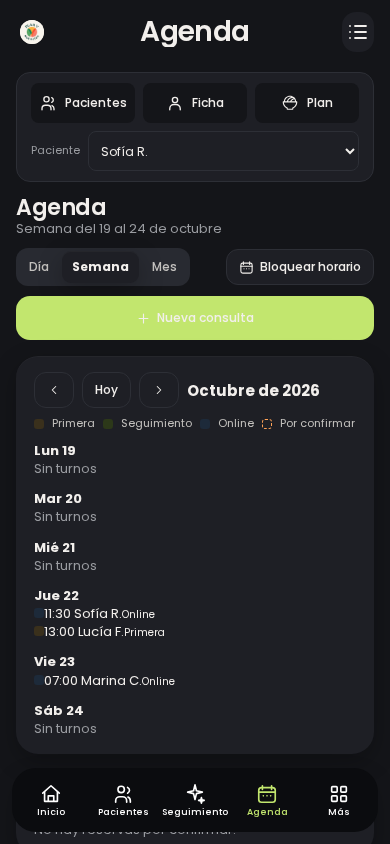
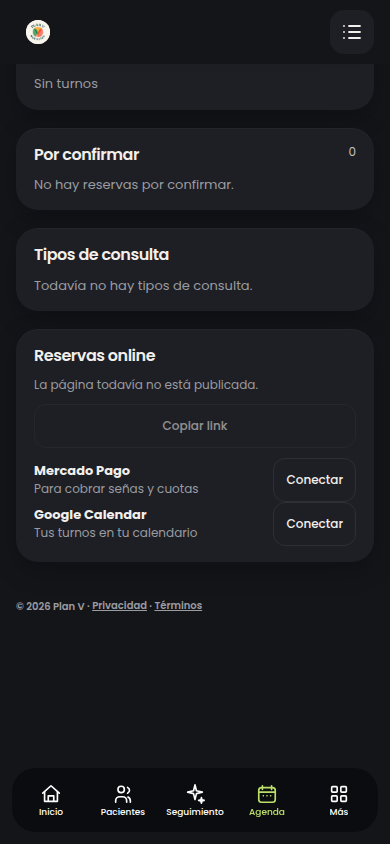
En el celular, Agenda y Cobranzas muestran un solo título, turnos en filas y el menú fijo.
Los movimientos pasan a tarjetas para que el nombre no se parta, y las capturas quedan junto al boceto de escritorio.

diff --git a/src/components/nutrigo/panel-fase5.css b/src/components/nutrigo/panel-fase5.css
@@ -55,7 +55,8 @@
 .pn-panel .p5-out { opacity:.45; }
 .pn-panel .p5-li { display:flex; align-items:center; gap:10px; min-width:0; }
 .pn-panel .p5-tx { flex:1; min-width:0; }
-.pn-panel .p5-tx b,.pn-panel .p5-tx span,.pn-panel .p5-link { display:block; overflow-wrap:anywhere; }
+.pn-panel .p5-tx b,.pn-panel .p5-tx span,.pn-panel .p5-link { display:block; overflow-wrap:break-word; word-break:normal; }
+.pn-panel .p5-link { overflow-wrap:anywhere; }
 .pn-panel .p5-tx span,.pn-panel .p5-link { color:var(--pn-muted); font-size:12px; }
 .pn-panel .p5-num { font-variant-numeric:tabular-nums; font-weight:500; white-space:nowrap; }
 .pn-panel .p5-av { width:34px; height:34px; border-radius:50%; display:grid; place-items:center; background:var(--pn-saffron-light); font-size:11px; font-weight:600; flex:none; }
@@ -91,7 +92,8 @@
 .pn-panel .p5-table th { text-align:left; font-weight:500; color:var(--pn-muted); font-size:11px; padding:8px; }
 .pn-panel .p5-table td { padding:10px 8px; border-top:1px solid var(--pn-line); vertical-align:middle; }
 .pn-panel .p5-who { display:flex; align-items:center; gap:8px; min-width:0; }
-.pn-panel .p5-who b { overflow-wrap:anywhere; }
+.pn-panel .p5-who b { overflow-wrap:break-word; word-break:normal; }
+.pn-panel .p5-moves { display:none; list-style:none; margin:0; padding:0; }
 .pn-panel .p5-state { display:inline-flex; border-radius:999px; padding:2px 8px; font-size:11px; background:var(--pn-fill); }
 .pn-panel .p5-state.p5-cobrado { background:var(--pn-lime-light); }
 .pn-panel .p5-state.p5-pendiente { background:var(--pn-saffron-light); }
@@ -115,8 +117,17 @@
   .pn-panel .p5-daylist { display:flex; flex-direction:column; gap:12px; }
   .pn-panel .p5-legend { margin-left:0; }
   .pn-panel .p5-head .p5-pri { width:100%; }
-  .pn-panel .p5-btn,.pn-panel .p5-seg button { min-height:44px; }
-  .pn-panel .p5,.pn-panel .p5-card,.pn-panel .p5-phone { max-width:100%; }
+  .pn-panel .p5-card>header { flex-wrap:wrap; align-items:flex-start; }
+  .pn-panel .p5-card>header .p5-seg { flex:1 1 100%; min-width:0; }
+  .pn-panel .p5-btn,.pn-panel .p5-seg button { min-height:44px; min-width:44px; }
+  .pn-panel .p5-seg { flex-wrap:wrap; max-width:100%; min-width:0; }
+  .pn-panel .p5-seg button { white-space:nowrap; }
+  .pn-panel .p5,.pn-panel .p5-card,.pn-panel .p5-phone,.pn-panel .p5-table-wrap { max-width:100%; min-width:0; }
+  .pn-panel .p5-table-wrap { display:none; }
+  .pn-panel .p5-moves { display:flex; flex-direction:column; gap:10px; }
+  .pn-panel .p5-moves li { display:flex; flex-direction:column; align-items:stretch; gap:6px; min-width:0; padding:12px; border-radius:16px; background:var(--pn-fill); }
+  .pn-panel .p5-moves p { margin:0; overflow-wrap:break-word; }
+  .pn-panel .p5-move-meta { display:flex; flex-wrap:wrap; align-items:center; gap:8px; }
 }
 @media (prefers-reduced-motion:reduce) {
   .pn-panel .p5-btn,.pn-panel .p5-switch::after { transition:none; }

diff --git a/src/components/nutrigo/panel-nutri-shell.css b/src/components/nutrigo/panel-nutri-shell.css
@@ -119,7 +119,8 @@
   .pn-panel .pn-collapse { display:none; }
   .nv-app.nv-pro.pn-panel .nv-topbar { position:sticky; top:0; padding:14px 16px; min-height:64px; background:var(--pn-cream); z-index:30; }
   .nv-app.nv-pro.pn-panel .nv-topbar-title { font-size:22px; }
-  .nv-app.nv-pro.pn-panel .nv-menu-toggle { display:flex !important; margin-left:auto; }
+  .nv-app.nv-pro.pn-panel .nv-menu-toggle { display:flex !important; margin-left:auto; width:44px; height:44px; min-width:44px; min-height:44px; }
+  .nv-app.nv-pro.pn-panel .nv-sidebar a { min-height:44px; }
   .nv-app.nv-pro.pn-panel .nv-main { padding:8px 16px calc(108px + env(safe-area-inset-bottom)); overflow:visible; gap:14px; }
   .pn-panel .nv-mobile-account { position:relative; margin-top:10px; }
   .pn-panel .nv-mobile-account .nv-header-menu { justify-content:space-between; }
@@ -156,10 +157,11 @@
 .pn-panel :is(button,a,input,select) { touch-action:manipulation; }
 .pn-panel .pn-mobile-close { display:none; }
 @media(max-width:799px) {
- .nv-app.nv-pro.pn-panel .nv-topbar>.nv-brand { display:flex; flex:none; }
+ .nv-app.nv-pro.pn-panel .nv-topbar>.nv-brand { display:flex; flex:none; align-items:center; justify-content:center; min-width:44px; min-height:44px; }
+ .nv-app.nv-pro.pn-panel .nv-footer a { display:inline-flex; align-items:center; min-height:44px; }
  .nv-app.nv-pro.pn-panel .nv-topbar>.nv-brand>span { display:none; }
  .nv-app.nv-pro.pn-panel .pn-mobile-close { position:absolute; right:8px; top:8px; display:grid; place-items:center; width:44px; height:44px; background:var(--pn-white); color:var(--pn-ink); border:0; border-radius:12px; }
- .nv-app.nv-pro.pn-panel .nv-tabbar { display:grid; grid-template-columns:repeat(5,minmax(0,1fr)); left:max(12px,env(safe-area-inset-left)); right:max(12px,env(safe-area-inset-right)); bottom:max(12px,env(safe-area-inset-bottom)); width:auto; min-height:64px; padding:6px 4px; border:0; border-radius:24px; gap:2px; background:var(--pn-solid); backdrop-filter:none; }
+ .nv-app.nv-pro.pn-panel .nv-tabbar { position:fixed; z-index:35; display:grid; grid-template-columns:repeat(5,minmax(0,1fr)); left:max(12px,env(safe-area-inset-left)); right:max(12px,env(safe-area-inset-right)); bottom:max(12px,env(safe-area-inset-bottom)); width:auto; min-height:64px; padding:6px 4px; border:0; border-radius:24px; gap:2px; background:var(--pn-solid); backdrop-filter:none; }
  .nv-app.nv-pro.pn-panel .nv-tabbar button { display:flex; flex-direction:column; justify-content:center; align-items:center; min-width:0; min-height:52px; padding:6px 0; gap:3px; border:0; background:transparent; color:var(--pn-on-solid); font-size:9px; font-weight:500; }
  .nv-app.nv-pro.pn-panel .nv-tabbar button[aria-current=page] { background:transparent; color:var(--pn-lime); }
  .nv-app.nv-pro.pn-panel .nv-tabbar .nv-tab-icon { display:grid; place-items:center; width:22px; height:22px; padding:0; background:transparent; }

diff --git a/src/components/nutrigo/PanelCobranzas.tsx b/src/components/nutrigo/PanelCobranzas.tsx
@@ -50,9 +50,12 @@ export function PanelCobranzasView({ board, today, filter, reminders, onFilter, 
         </section>
       </div>
       <section className="p5-card"><header><h3>Movimientos</h3><div className="p5-seg" role="group" aria-label="Filtrar movimientos">{([['todos', 'Todos'], ['cobrado', 'Cobrados'], ['pendiente', 'Pendientes'], ['vencido', 'Vencidos']] as const).map(([id, label]) => <button type="button" key={id} aria-pressed={filter === id} onClick={() => onFilter(id)}>{label}</button>)}</div></header>
-        {!rows.length ? <p className="p5-empty">Todavía no hay movimientos.</p> : <div className="p5-table-wrap"><table className="p5-table"><thead><tr><th>Fecha</th><th>Paciente</th><th>Concepto</th><th>Medio</th><th>Monto</th><th>Estado</th><th><span className="p5-sr">Acción</span></th></tr></thead><tbody>
-          {rows.map(row => <tr key={row.id}><td>{formatFeeDate(row.date)}</td><td><span className="p5-who"><span className="p5-av">{personInitials(row.patientName)}</span><b>{row.patientName}</b></span></td><td>{row.concept}</td><td>{row.method}</td><td className="p5-num">{pesos(row.amount)}</td><td><span className={`p5-state p5-${row.kind}`}>{row.status}</span></td><td><button type="button" className="p5-btn" aria-label={`Ver cobranzas de ${row.patientName}`} onClick={() => onOpen(row.patientId)}>Ver</button></td></tr>)}
-        </tbody></table></div>}
+        {!rows.length ? <p className="p5-empty">Todavía no hay movimientos.</p> : <>
+          <div className="p5-table-wrap"><table className="p5-table"><thead><tr><th>Fecha</th><th>Paciente</th><th>Concepto</th><th>Medio</th><th>Monto</th><th>Estado</th><th><span className="p5-sr">Acción</span></th></tr></thead><tbody>
+            {rows.map(row => <tr key={row.id}><td>{formatFeeDate(row.date)}</td><td><span className="p5-who"><span className="p5-av">{personInitials(row.patientName)}</span><b>{row.patientName}</b></span></td><td>{row.concept}</td><td>{row.method}</td><td className="p5-num">{pesos(row.amount)}</td><td><span className={`p5-state p5-${row.kind}`}>{row.status}</span></td><td><button type="button" className="p5-btn" aria-label={`Ver cobranzas de ${row.patientName}`} onClick={() => onOpen(row.patientId)}>Ver</button></td></tr>)}
+          </tbody></table></div>
+          <ul className="p5-moves">{rows.map(row => <li key={row.id}><div className="p5-who"><span className="p5-av" aria-hidden="true">{personInitials(row.patientName)}</span><b>{row.patientName}</b></div><p>{formatFeeDate(row.date)} · {row.concept}</p><div className="p5-move-meta"><span>{row.method}</span><span className="p5-num">{pesos(row.amount)}</span><span className={`p5-state p5-${row.kind}`}>{row.status}</span></div><button type="button" className="p5-btn" aria-label={`Ver cobranzas de ${row.patientName}`} onClick={() => onOpen(row.patientId)}>Ver</button></li>)}</ul>
+        </>}
       </section>
     </>}
   </section>;

diff --git a/src/components/nutrigo/panel-mobile.test.ts b/src/components/nutrigo/panel-mobile.test.ts
@@ -1,0 +1,26 @@
+import { readFileSync } from 'node:fs';
+import { describe, expect, it } from 'vitest';
+
+const shell = readFileSync(new URL('./panel-nutri-shell.css', import.meta.url), 'utf8');
+const fase5 = readFileSync(new URL('./panel-fase5.css', import.meta.url), 'utf8');
+const showroom = readFileSync(new URL('./NutrigoShowroom.tsx', import.meta.url), 'utf8');
+
+describe('celular de Agenda y Cobranzas', () => {
+  it('no repite el título y no muestra los accesos de paciente en esas pantallas', () => {
+    expect(shell).toMatch(/\.nv-app\.nv-pro\.pn-panel:is\(\.nv-agenda-page,\.nv-fees-page\) \.nv-topbar-title \{ position:absolute;/);
+    expect(showroom).toContain("'agenda', 'cobranzas'");
+    expect(showroom).toContain("page === 'agenda' || page === 'cobranzas'");
+  });
+
+  it('fija el menú inferior y separa cada turno con su etiqueta', () => {
+    expect(shell).toMatch(/\.nv-app\.nv-pro\.pn-panel \.nv-tabbar \{ position:fixed; z-index:35;/);
+    expect(shell).toMatch(/padding-bottom:calc\(108px \+ env\(safe-area-inset-bottom\)\)/);
+    expect(fase5).toMatch(/\.pn-panel \.p5-turn \{ display:flex; align-items:center; gap:10px; min-height:44px;/);
+    expect(fase5).toMatch(/\.pn-panel \.p5-chip \{/);
+    expect(fase5).toMatch(/min-height:44px; min-width:44px;/);
+    expect(fase5).toMatch(/\.pn-panel \.p5-seg \{ flex-wrap:wrap; max-width:100%; min-width:0; \}/);
+    expect(fase5).toMatch(/\.pn-panel \.p5-who b \{ overflow-wrap:break-word; word-break:normal; \}/);
+    expect(fase5).toMatch(/\.pn-panel \.p5-table-wrap \{ display:none; \}/);
+    expect(fase5).toMatch(/\.pn-panel \.p5-moves \{ display:flex; flex-direction:column;/);
+  });
+});

diff --git a/src/components/nutrigo/PanelCobranzas.test.tsx b/src/components/nutrigo/PanelCobranzas.test.tsx
@@ -17,6 +17,7 @@ describe('Cobranzas del boceto', () => {
     expect(html).not.toContain('WhatsApp');
     expect(html).toContain('escribirle por el chat');
     expect(html).toContain('aria-label="Ver cobranzas de Camila Torres de los Remedios"');
+    expect(html).toContain('class="p5-moves"');
     expect(html).not.toContain('Sofía');
   });
 

diff --git a/docs/panel-nutri-rediseno/plan.md b/docs/panel-nutri-rediseno/plan.md
@@ -244,6 +244,13 @@ Facundo pidió que funcionen. Verificar primero si ya existen en `main`; si no, 
 
 ## 8. Bitácora (una entrada por paso, la más nueva arriba)
 
+### 2026-10-19 23:30 · Cursor · Celular de Agenda y Cobranzas
+- Hecho: Facu rechazó el celular. Agenda y Cobranzas muestran el título una sola vez. El bloque Pacientes/Ficha/Plan no aparece ahí. Cada turno es una fila con la hora, el nombre y la etiqueta separada. En el celular, Movimientos es una lista de tarjetas y el nombre no se parte letra por letra. El menú inferior queda fijo y deja espacio, así no tapa el contenido.
+- Cómo: se aplicaron break-ui, frontend-patterns, frontend-a11y y verification-loop. Se midió 360, 390 y 430: sin desborde y con botones de al menos 44 px. Las capturas se sacaron del panel real, con su menú, y quedaron al lado del boceto de escritorio en `design/panel-nutri/fase-5/`. No hay boceto de celular.
+- Rama y PR: `cursor/arreglo-mobile-fase5`, [PR #158](https://github.com/Facu42/plan-v/pull/158), borrador contra main. No se junta. El arreglo de las pantallas de suscripciones va en el PR #156.
+- Falta: anotar el resultado de la suite al cerrar el control.
+- Próximo paso exacto: cerrar el control de esta rama. No juntar a main.
+
 ### 2026-10-19 18:40 · Cursor · Fase 5, paso 4 (junto con la fase 4)
 - Hecho: se trajo main a esta rama. La ficha de la fase 4 y Agenda, Cobranzas y Página pública conviven. En Cobranzas, Ver vuelve a llamarse «Ver cobranzas de…» para abrir la cuota. Si todavía no hay movimientos, el recorrido abre Registrar cobro.
 - Cómo: merge de `origin/main` sin rebase. Se conservan las dos bitácoras. No se tocó el servidor.

diff --git a/docs/coordinacion-agentes.md b/docs/coordinacion-agentes.md
@@ -79,6 +79,7 @@ del piloto, entidad legal.
 
 ## 5. Bitácora de traspaso (la más nueva arriba)
 
+- **19/10 · Cursor · Celular de Agenda y Cobranzas** · Facu rechazó el celular de 390. Rama `cursor/arreglo-mobile-fase5`, desde main, [PR #158](https://github.com/Facu42/plan-v/pull/158). Un solo título, sin el bloque Pacientes/Ficha/Plan, turnos en filas con etiqueta, movimientos en tarjetas y menú inferior fijo. Capturas en `design/panel-nutri/fase-5/`, el celular al lado del boceto de escritorio. Sin merge y sin producción. El celular de las pantallas de suscripciones queda en el PR #156.
 - **19/10 · Cursor · Fase 5 con la fase 4** · Se trajo main (fase 4, #154) a `cursor/panel-nutri-fase-5`. Conviven el armazón, la ficha y Agenda, Cobranzas y Página pública. [PR #153](https://github.com/Facu42/plan-v/pull/153), sin juntar hasta que los controles estén verdes.
 - **19/10 · Cursor · Fase 5 comparada y sin WhatsApp** · Capturas en `design/panel-nutri/fase-5/`. [PR #153](https://github.com/Facu42/plan-v/pull/153). WhatsApp salió de Agenda, Cobranzas, Página pública y Conexiones. Los recordatorios abren el chat de la app. El servidor no se tocó.
 - **19/10 · Cursor · Cierre fase 5** · Agenda, Cobranzas y Página pública en `cursor/panel-nutri-fase-5`, desde main `6697d28`. [PR #153](https://github.com/Facu42/plan-v/pull/153). Conectar no finge claves. Se conservan transferencias, conciliación, desconectar y el resto de la agenda vieja. Sin SQL remoto. Autorizado por Facundo 19/10 porque Codex sin crédito. La fase 6 sigue pendiente.

diff --git a/docs/traspaso-estado-proyecto.md b/docs/traspaso-estado-proyecto.md
@@ -1,6 +1,6 @@
 # Traspaso del proyecto (actualización vigente: 2026-10-19)
 
-19/10 · Cursor · Fase 5 trae la fase 4 de main y sigue en [PR #153](https://github.com/Facu42/plan-v/pull/153), sin juntar hasta que los controles estén verdes. WhatsApp salió del panel. La ficha de #154 convive con Agenda, Cobranzas y Página pública. Sin SQL remoto.
+19/10 · Cursor · El celular de Agenda y Cobranzas que ya está en main se arregla en `cursor/arreglo-mobile-fase5`, [PR #158](https://github.com/Facu42/plan-v/pull/158), borrador contra main. Un título, sin el bloque de paciente, turnos en filas y menú inferior fijo. No se junta. La fase 5 original sigue en [PR #153](https://github.com/Facu42/plan-v/pull/153). WhatsApp salió del panel. Sin SQL remoto.
 
 ## 19/10 · Ficha de la nutri, fase 4
 
